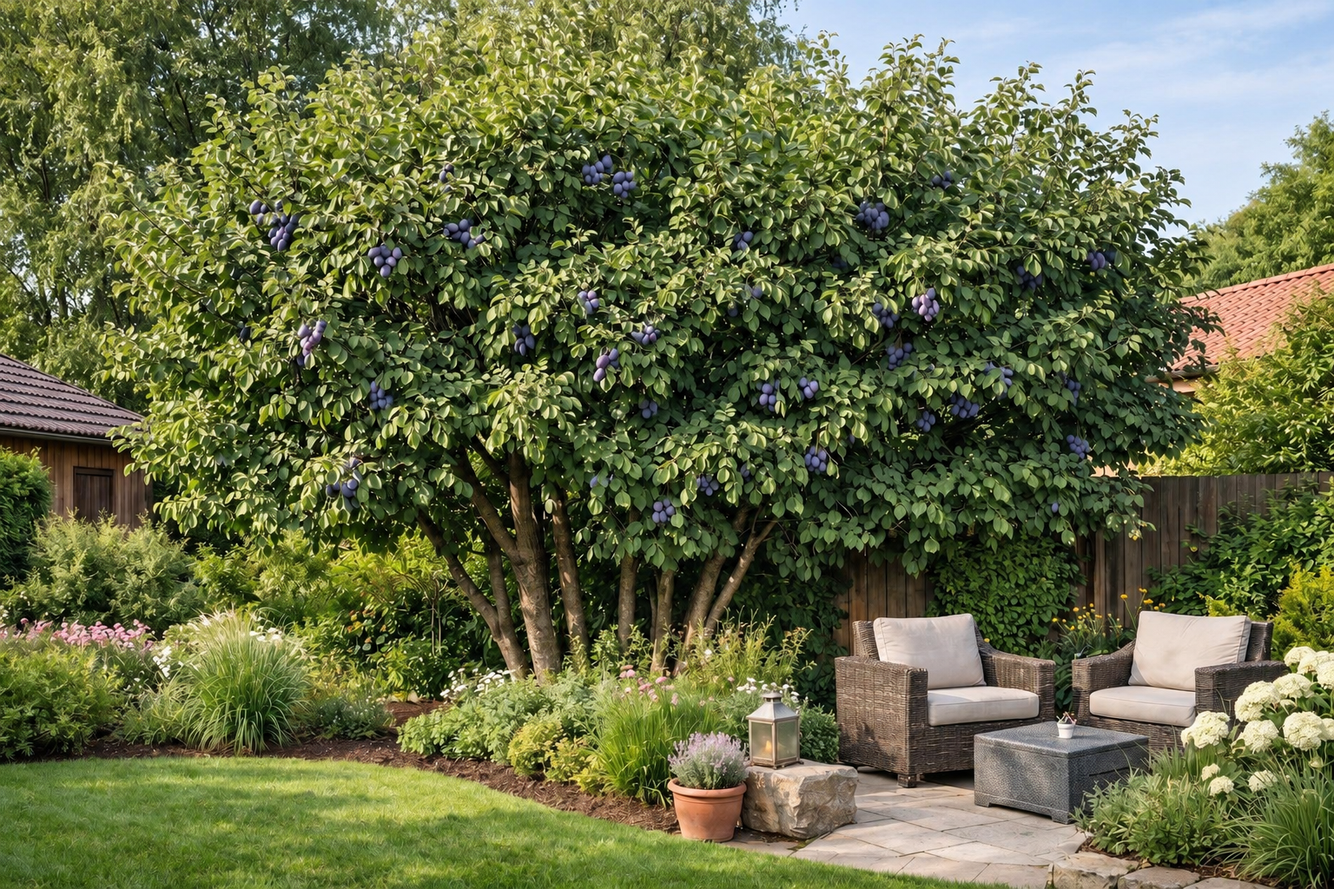
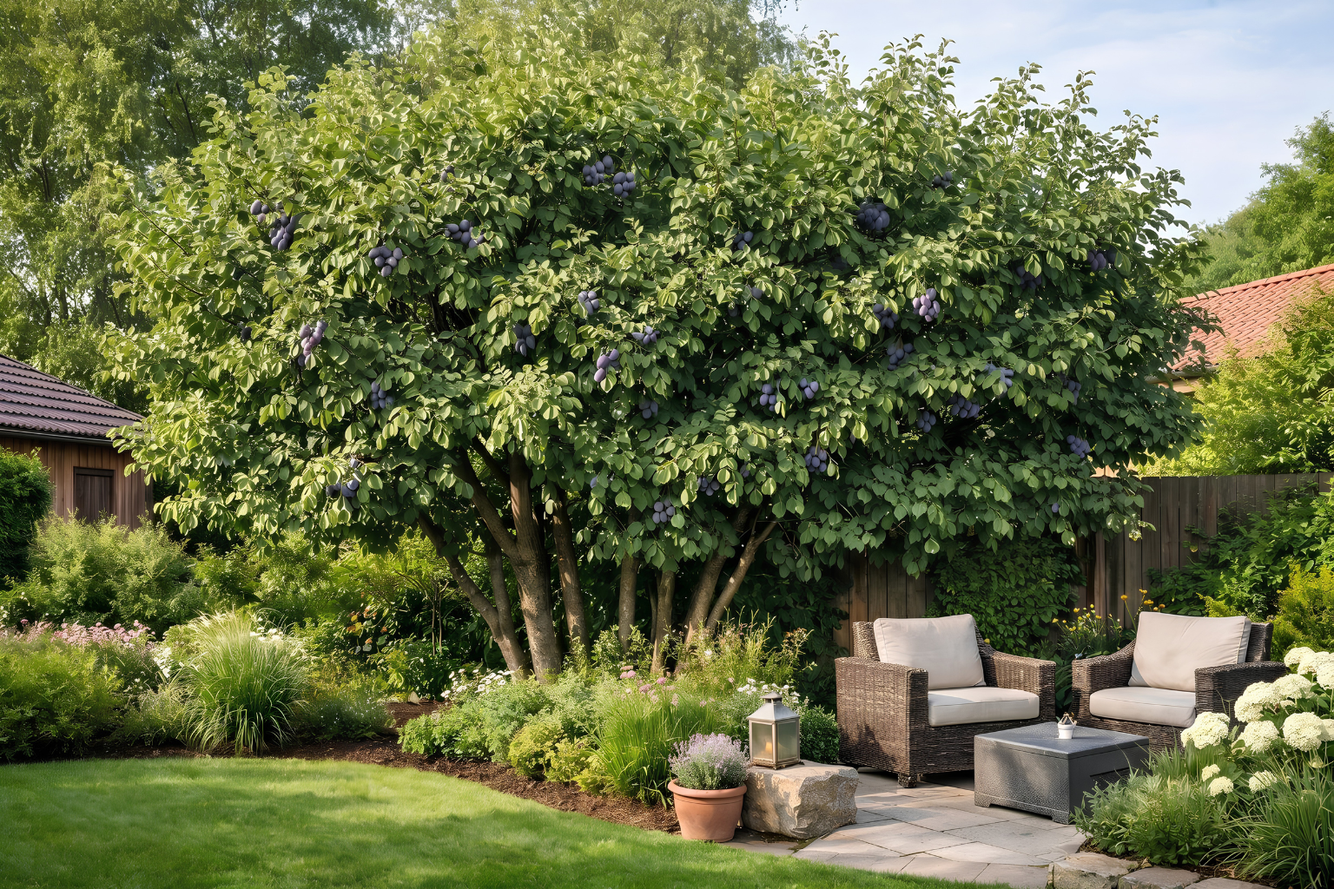
Poprawienie jakości tła

diff --git a/style.css b/style.css
@@ -1423,7 +1423,7 @@ footer {
 }
 
 .product-page--sliwka main::before {
-  background-image: url("assets/sliwa.jpg")
+  background-image: url("assets/sliwa.png");
 }
 
 .product-page footer {
